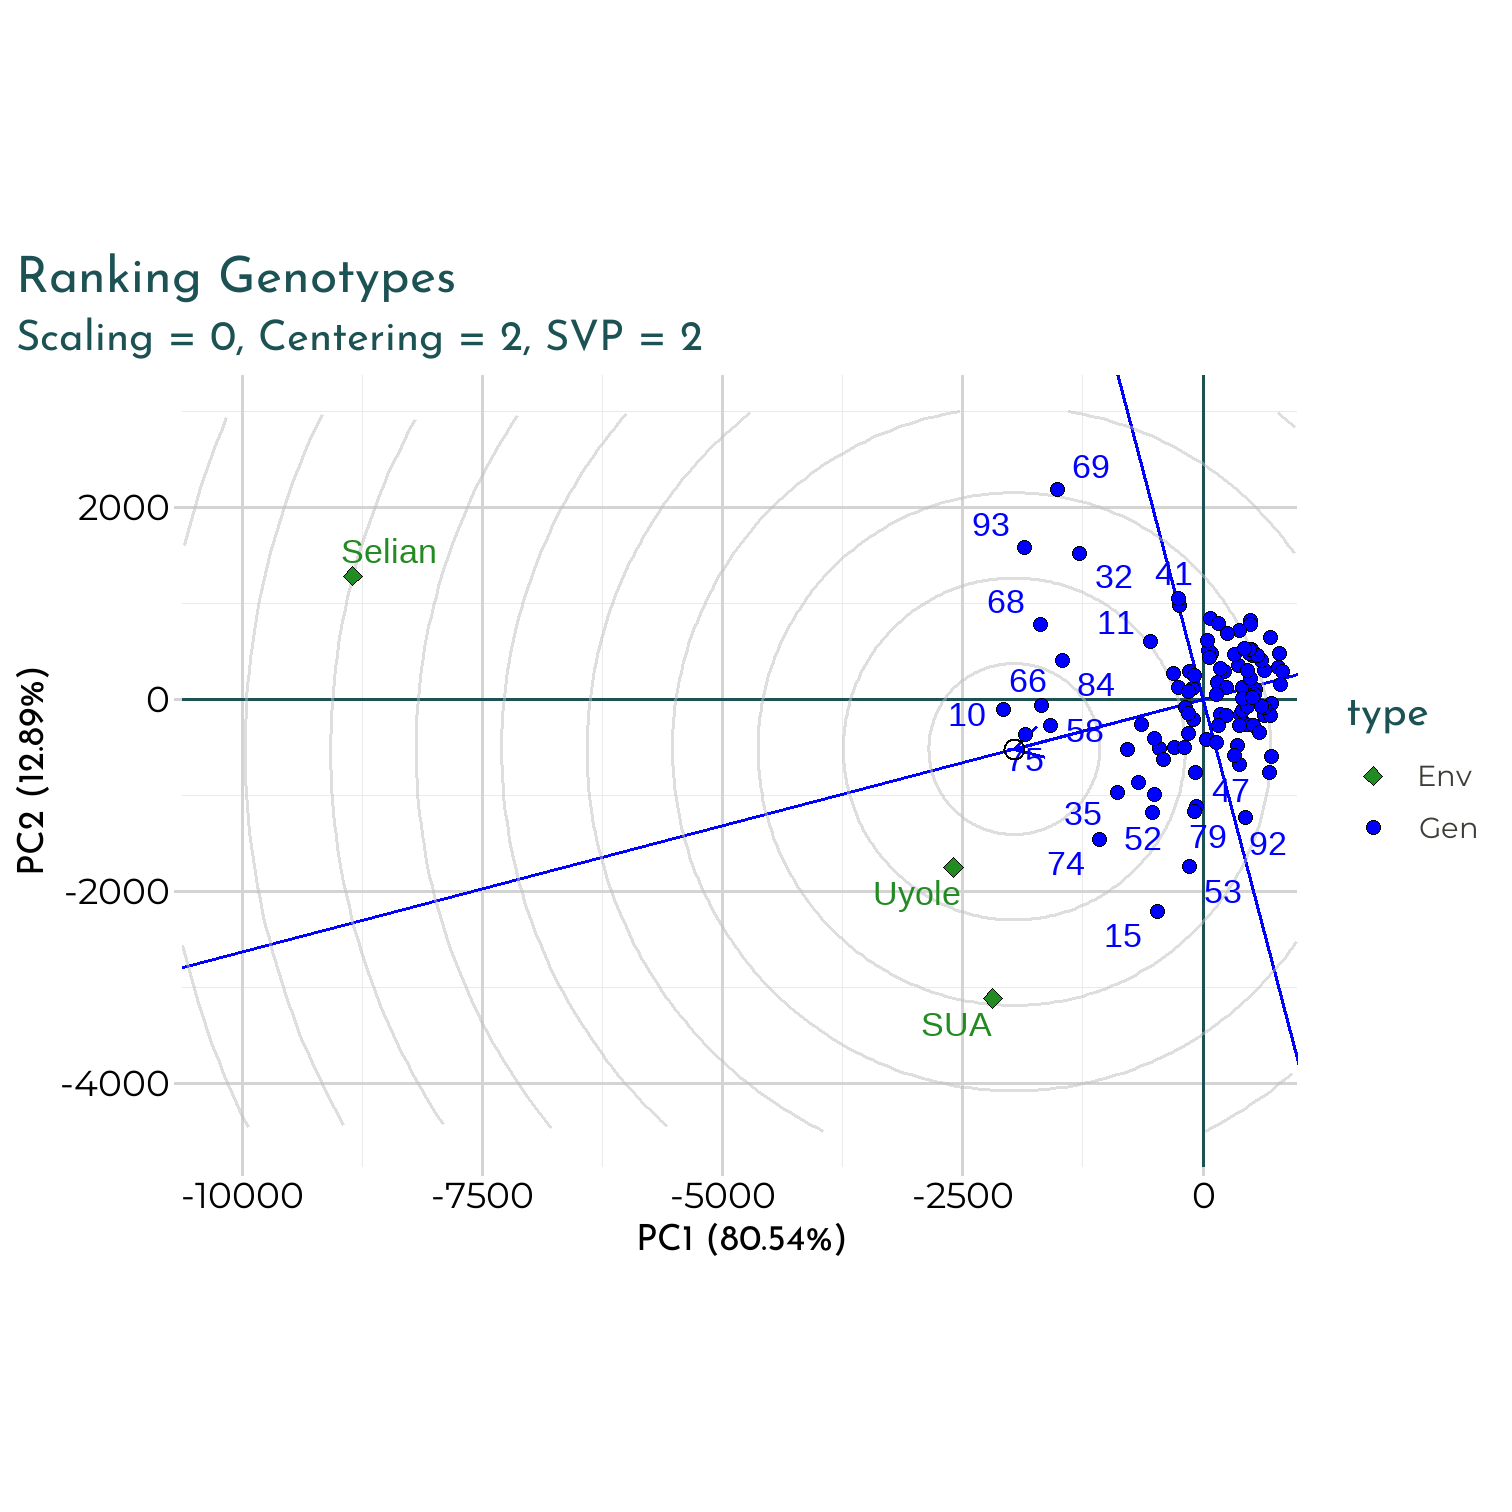
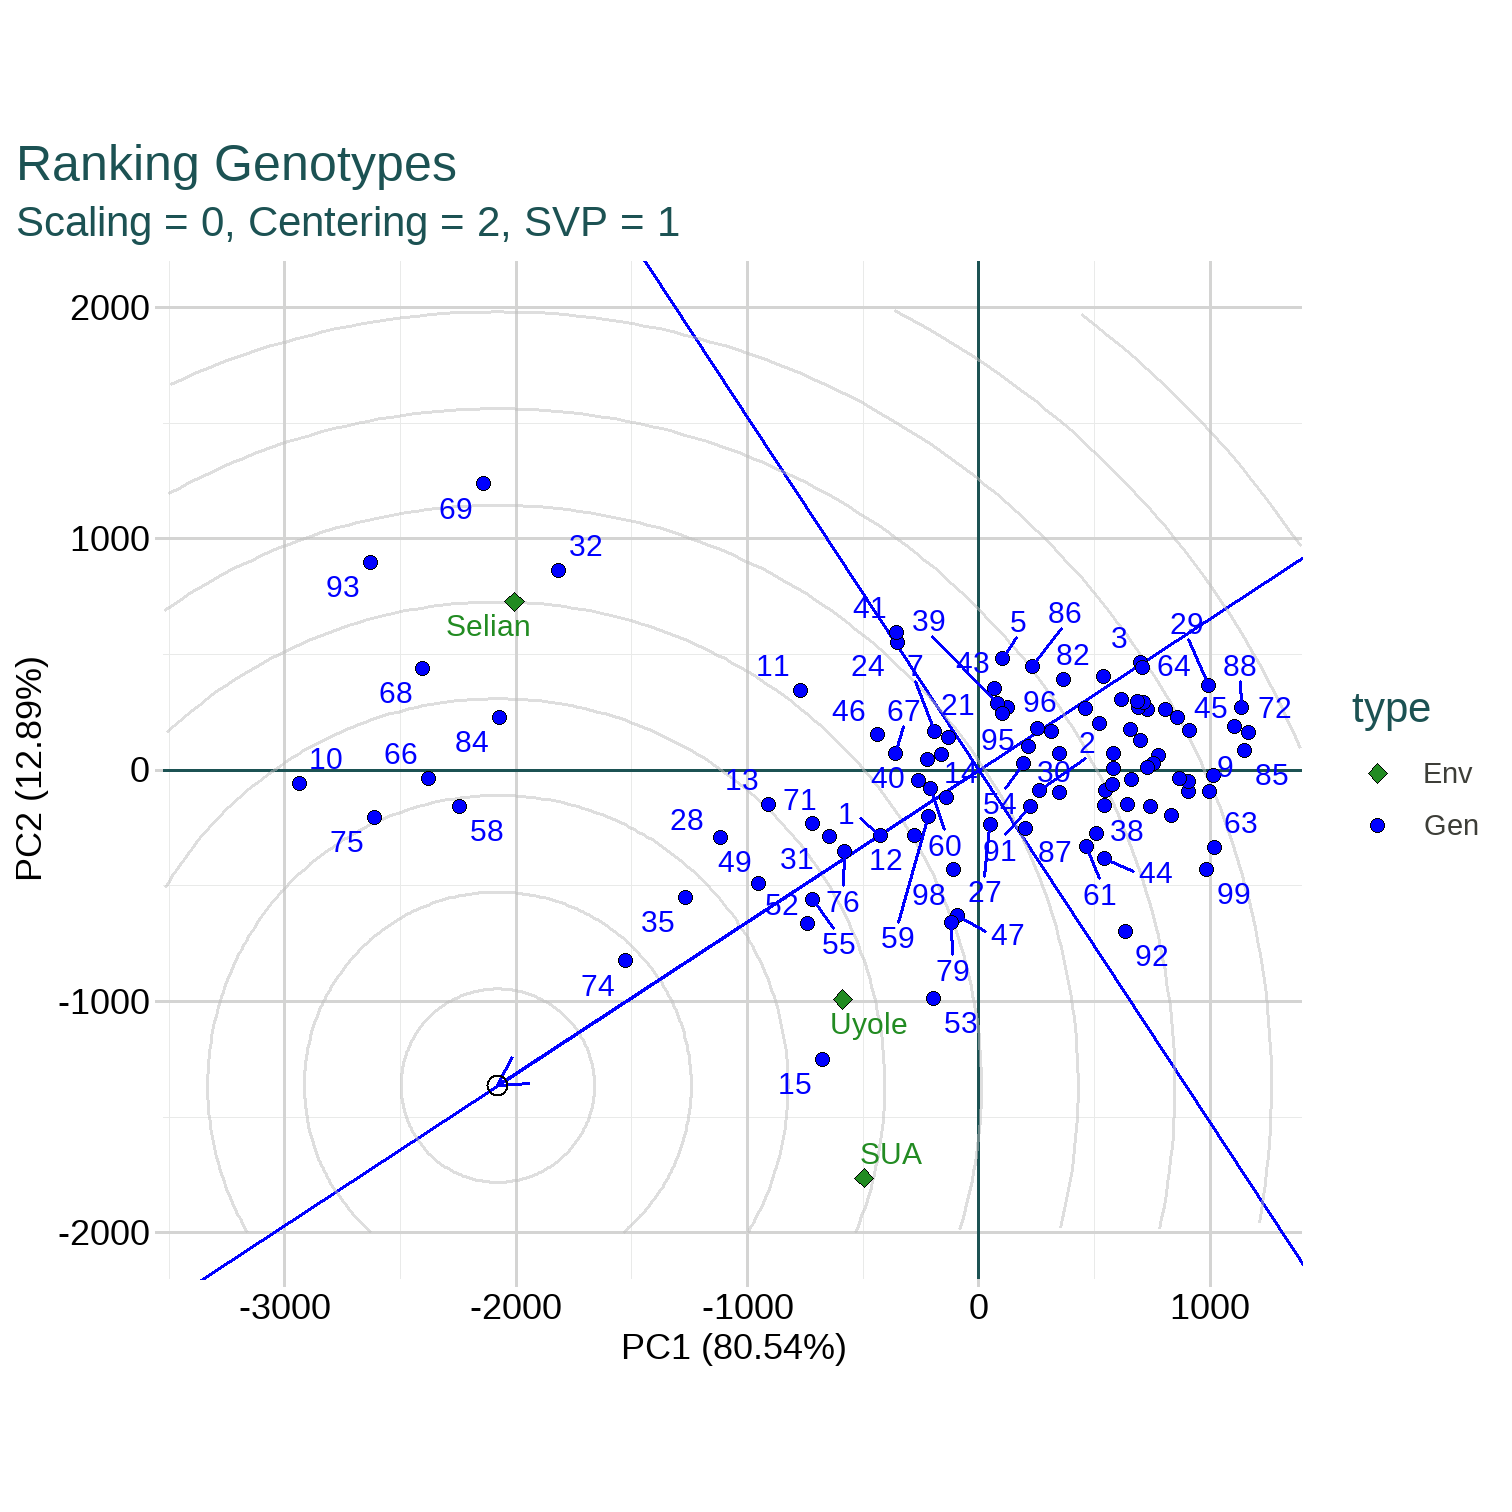
6/23: changes from Dr.M suggestions

diff --git a/GxE-June2022/index.html b/GxE-June2022/index.html
@@ -4,7 +4,7 @@
     <title>GxE Analysis Workshop</title>
     <meta charset="utf-8" />
     <meta name="author" content="Ellena Girma" />
-    <script src="index_files/header-attrs-2.13/header-attrs.js"></script>
+    <script src="index_files/header-attrs-2.14/header-attrs.js"></script>
     <script src="index_files/clipboard-2.0.6/clipboard.min.js"></script>
     <link href="index_files/shareon-1.4.1/shareon.min.css" rel="stylesheet" />
     <script src="index_files/shareon-1.4.1/shareon.min.js"></script>
@@ -28,7 +28,7 @@ class: center, middle, inverse, title-slide
 ### Ellena Girma
 ]
 .date[
-### 2022/05/27 (updated: 2022-05-30)
+### 2022/05/27 (updated: 2022-06-23)
 ]
 
 ---
@@ -207,14 +207,14 @@ print(ds_all)
 ```
 
 ```
-## # A tibble: 5 x 9
-##   variable      cv    max    mean median   min sd.amo      se      ci
-##   &lt;chr&gt;      &lt;dbl&gt;  &lt;dbl&gt;   &lt;dbl&gt;  &lt;dbl&gt; &lt;dbl&gt;  &lt;dbl&gt;   &lt;dbl&gt;   &lt;dbl&gt;
-## 1 DF          7.02   48     39.5    39    33     2.77  0.093   0.182 
-## 2 pods.plant 48.1    46.6   14.8    13.4   2.6   7.11  0.238   0.467 
-## 3 seeds.pod  21.3     7.6    4.82    4.8   2.6   1.02  0.0343  0.0673
-## 4 sw         32.9    67     35.2    35    15.3  11.6   0.389   0.763 
-## 5 yield      43.0  5153.  1754.   1602.  498.  754.   25.3    49.6
+## # A tibble: 5 × 10
+##   variable      cv    max    mean median   min sd.amo      se    ci.t n.valid
+##   &lt;chr&gt;      &lt;dbl&gt;  &lt;dbl&gt;   &lt;dbl&gt;  &lt;dbl&gt; &lt;dbl&gt;  &lt;dbl&gt;   &lt;dbl&gt;   &lt;dbl&gt;   &lt;dbl&gt;
+## 1 DF          7.02   48     39.5    39    33     2.77  0.093   0.182      891
+## 2 pods.plant 48.1    46.6   14.8    13.4   2.6   7.11  0.238   0.467      891
+## 3 seeds.pod  21.3     7.6    4.82    4.8   2.6   1.02  0.0343  0.0673     891
+## 4 sw         32.9    67     35.2    35    15.3  11.6   0.389   0.763      891
+## 5 yield      43.0  5153.  1754.   1602.  498.  754.   25.3    49.6        891
 ```
 ]
 ]
@@ -344,7 +344,7 @@ slice(mg_y, 1:10)
 ```
 
 ```
-## # A tibble: 10 x 2
+## # A tibble: 10 × 2
 ##    Genotype     yield
 ##    &lt;fct&gt;        &lt;dbl&gt;
 ##  1 Cheupe       3144.
@@ -388,7 +388,7 @@ me_y
 ```
 
 ```
-## # A tibble: 3 x 2
+## # A tibble: 3 × 2
 ##   Site   yield
 ##   &lt;fct&gt;  &lt;dbl&gt;
 ## 1 Selian 2336.
@@ -419,7 +419,7 @@ print(win)
 ```
 
 ```
-## # A tibble: 3 x 6
+## # A tibble: 3 × 6
 ##   ENV    DF              pods.plant   seeds.pod sw          yield    
 ##   &lt;fct&gt;  &lt;chr&gt;           &lt;chr&gt;        &lt;chr&gt;     &lt;chr&gt;       &lt;chr&gt;    
 ## 1 Selian Kamosi          Cheupe       Cheupe    Lyamungo 90 Cheupe   
@@ -446,7 +446,7 @@ class: middle
 
 #### anova_joint() is the function used for combined site analysis.
 
-#### get the anova table for the respinse variable you want through anova_object_name$var_name$anova to 
+#### get the anova table for the response variable you want through anova_object_name$var_name$anova to 
 
 
 
@@ -668,7 +668,7 @@ gge_model &lt;- gge(.data = bean_data,
 .panel[.panel-name[Create Plot]
 
 
-Basic Biplot is a PC2 vs PC1 plot. Each environment will have a vector connected to the origin. The angle between environments gives you information about the correlation between the environments. 
+Basic Biplot is a PC2 vs PC1 plot. Each environment will have a vector starting from the origin. The angle between environments gives you information about the correlation between the environments. 
 
 
 ```r
@@ -702,8 +702,7 @@ plot(gge_model, type = 4)
 ]
 .panel[.panel-name[Plot]
 
-Selian has the longest vector. We can look at yield performance at Selian and get more information about the yield of the genotypes than at SUA or Uyole.
-The longer the vector of that environment, the more information about genotype performance for the variable. 
+Selian has the longest vector. We can look at yield performance at Selian and get more information about the yield of the genotypes than at SUA or Uyole. Uyole has the smaller angle to the Average Environment Axis (AEA). This makes it the most representative environment. 
 
 
 ```r
@@ -733,7 +732,7 @@ plot(gge_model, type = 10)
 
 
 ]
-.panel[.panel-name[Type = 6 Plot]
+.panel[.panel-name[Ranking Environment]
 
 
 ```r
@@ -742,7 +741,7 @@ ranking_envrionment
 
 &lt;img src="index_files/figure-html/ranking-plot-1.png" width="504" /&gt;
 ]
-.panel[.panel-name[Type = 10 Plot]
+.panel[.panel-name[Relationship Between Environments]
 
 ```r
 relationship
@@ -766,7 +765,7 @@ gge_model_gen &lt;- gge(.data = bean_data,
                  gen = Gen_id,
                  resp = yield,
                  centering = "environment",
-                 svp = "environment")
+                 svp = "genotype")
 ```
 
 ---
@@ -782,16 +781,13 @@ explain plot types
 # mean performance vs stability 
 plot(gge_model_gen, type =2)
 
-#examining the performance a particular genotype
-
-plot(gge_model_gen, type =7, sel_gen = "87")
-
 # Ranking genotype 
 plot(gge_model_gen, type=8)
 ```
 
+
 ]
-.panel[.panel-name[Type = 2 Plot]
+.panel[.panel-name[Mean vs Stability]
 
 
 ```r
@@ -800,15 +796,7 @@ mean_vs_stability
 
 &lt;img src="index_files/figure-html/mean-perf-vs-stability-plot-1.png" width="504" /&gt;
 ]
-.panel[.panel-name[Type = 7 Plot]
-
-```r
-genotype.87
-```
-
-&lt;img src="index_files/figure-html/type-7-plot-1.png" width="504" /&gt;
-]
-.panel[.panel-name[Type = 8 Plot]
+.panel[.panel-name[Ranking Genotypes]
 
 ```r
 rank_genotype
@@ -847,15 +835,12 @@ gge_symmetrical &lt;- gge(.data = bean_data,
 # which won where 
 plot(gge_symmetrical, type=3)
 
-#Exmaine an env
-examine_Selian &lt;- plot(gge_symmetrical, type=1, sel_env = "Selian")
-
 #Comparing 2 genotypes 
 
 compare_two_gen &lt;- plot(gge_symmetrical, type=9, sel_gen1 = "15", sel_gen2 = "69")
 ```
 ]
-.panel[.panel-name[Type = 3 Plot]
+.panel[.panel-name[Which Won Where]
 
 ```r
 which_won_where
@@ -863,15 +848,7 @@ which_won_where
 
 &lt;img src="index_files/figure-html/type-3-plot-1.png" width="504" /&gt;
 ]
-.panel[.panel-name[Type = 1 Plot]
-
-```r
-examine_Selian
-```
-
-&lt;img src="index_files/figure-html/type-1-plot-1.png" width="504" /&gt;
-]
-.panel[.panel-name[Type = 9 Plot]
+.panel[.panel-name[Compare Genotypes]
 
 ```r
 compare_two_gen
@@ -931,7 +908,7 @@ ammi$yield$ANOVA
 *## 5       PC1   99 112959941.7  1141009.51  56.650000  0.000000e+00       83.2
 *## 6       PC2   97  22778941.2   234834.45  11.660000  0.000000e+00       16.8
 *## 7 Residuals  588  11843181.6    20141.47         NA            NA         NA
-## 8     Total 1086 642003209.7   591163.18         NA            NA         NA
+*## 8     Total 1086 642003209.7   591163.18         NA            NA         NA
 ##   Accumulated
 ## 1          NA
 ## 2          NA
@@ -944,7 +921,6 @@ ammi$yield$ANOVA
 ```
 ]
 .panel[.panel-name[AMMI Plot]
-&lt;img src="index_files/figure-html/ammi-plot-for-output-1.png" width="504" /&gt;
 
 
 ```r
@@ -975,10 +951,10 @@ plot_scores(ammi, type=2)
 plot_scores(ammi, type=2, polygon=T)
 ```
 ]
-.panel[.panel-name[ab2]
+.panel[.panel-name[ammi_biplot1]
 
 ```r
-ab2
+ammi_biplot1
 ```
 
 &lt;img src="index_files/figure-html/ab2-1.png" width="504" /&gt;
@@ -1023,11 +999,71 @@ class: middle, center
 ]
 
 ---
+
+#### Use the &lt;a href= "https://tiagoolivoto.github.io/metan/reference/ammi_indexes.html"&gt;ammi_indexes()&lt;/a&gt; function to calculate many AMMI-based statistics.
+.panelset[
+.panel[.panel-name[ASV]
+
+```r
+ammi_index &lt;- ammi_indexes(ammi, level = 0.95)
+```
+]
+.panel[.panel-name[ASV Results]
+
+
+```r
+ammi_index$yield$ASV
+```
+
+```
+##  [1]   0.3743284 105.7142141  45.3017281   5.5209325  24.1452122   8.3997479
+##  [7]  41.8516322  36.1954736  13.1441321   9.6855204  10.0884941  15.5603091
+## [13]  21.9185126  11.5032871   2.6378536  24.4509217  39.6016949  18.0710260
+## [19]   3.2796301  13.9254193  22.7739710  14.3698118   1.7219150   6.1451389
+## [25]   7.1595452 105.4762409  17.5841386  33.7633071  14.7950173  24.0321075
+## [31]  22.0682420  31.6411401  12.4973625  16.1684393   7.8463305  45.7226331
+## [37]  23.1230903  18.4354299  40.2764680  30.1568250  21.7140351  29.5019066
+## [43]   8.2826783  15.2563748  21.2334733  25.5156696  37.4984548   8.6861028
+## [49]  43.0402788   7.0901911  13.8969691   6.8373741  35.8930326  69.3553828
+## [55]   2.9744217  29.8567655   2.9008277  32.5698178   8.8062425  52.7442305
+## [61]   8.5565234  18.1772123  82.1457799  15.3907617 115.9391135 141.8757472
+## [67]  22.2635780  23.0671911  11.6343117  33.3673054  15.0946263   8.8537557
+## [73]  79.4979963   5.2581231  37.8284771  12.3913684  28.5883873  15.7815954
+## [79]  28.5323632  32.5604059   2.9355086   6.7212823  84.5058132  37.2137729
+## [85]  14.4411885  20.4230591  24.3445197  11.7288386  35.5159709   6.6535237
+## [91]  15.2624635  55.0649012 140.7028315  13.8009329   8.8636252   7.4107872
+## [97]  24.8599914  26.9057554  58.4753660
+```
+]
+.panel[.panel-name[ASVR Results]
+
+
+```r
+ammi_index$yield$ASV_R
+```
+
+```
+##  [1]  1 96 86  9 60 19 84 78 32 25 26 43 53 27  3 62 82 47  7 35 56 36  2 10 15
+## [26] 95 46 75 38 59 54 71 31 45 17 87 58 49 83 70 52 68 18 40 51 64 80 21 85 14
+## [51] 34 13 77 91  6 69  4 73 22 88 20 48 93 42 97 99 55 57 28 74 39 23 92  8 81
+## [76] 30 67 44 66 72  5 12 94 79 37 50 61 29 76 11 41 89 98 33 24 16 63 65 90
+```
+]
+
+.panel[.panel-name[YSI]
+
+### YSI = RASV + RY
+
+]
+]
+
+
+---
 class: middle
 
 # Follow Up Resources 
 
-#### The link to this presentation will be emailed to you, along with a pdf copy.
+#### The link to this presentation will be emailed to you.
 
 #### Check out my &lt;a href = "https://rforplantbreeders.netlify.app/"&gt; blog &lt;/a&gt; for more detailed written tutorials for plant breeders who want to learn how to use R. 
 
@@ -1040,7 +1076,7 @@ class: middle
 class: middle, center
 
 # Any Questions?
-#### Please feel free to ask now. 
+### Thank you for attending this workshop. You can ask any questions you may have now. 
 
     </textarea>
 <style data-target="print-only">@media screen {.remark-slide-container{display:block;}.remark-slide-scaler{box-shadow:none;}}</style>

diff --git a/GxE-June2022/index_files/header-attrs-2.14/header-attrs.js b/GxE-June2022/index_files/header-attrs-2.14/header-attrs.js
@@ -1,0 +1,12 @@
+// Pandoc 2.9 adds attributes on both header and div. We remove the former (to
+// be compatible with the behavior of Pandoc < 2.8).
+document.addEventListener('DOMContentLoaded', function(e) {
+  var hs = document.querySelectorAll("div.section[class*='level'] > :first-child");
+  var i, h, a;
+  for (i = 0; i < hs.length; i++) {
+    h = hs[i];
+    if (!/^h[1-6]$/i.test(h.tagName)) continue;  // it should be a header h1-h6
+    a = h.attributes;
+    while (a.length > 0) h.removeAttribute(a[0].name);
+  }
+});

diff --git a/GxE-June2022/index_files/xaringanExtra-shareagain-0.2.6/shareagain.js b/GxE-June2022/index_files/xaringanExtra-shareagain-0.2.6/shareagain.js
@@ -127,11 +127,13 @@
 
     // button touch events (block remarkjs slide change on touch)
     btnSlidePrev.addEventListener('touchend', function (ev) {
+      ev.preventDefault()
       slideshow.gotoPreviousSlide()
       ev.stopPropagation()
     })
 
     btnSlideNext.addEventListener('touchend', function (ev) {
+      ev.preventDefault()
       slideshow.gotoNextSlide()
       ev.stopPropagation()
     });
